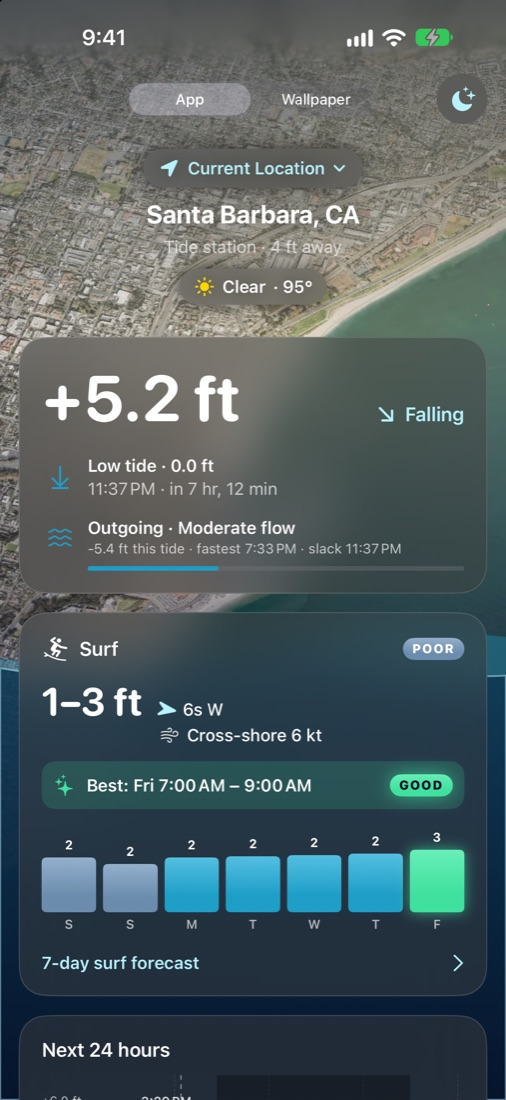
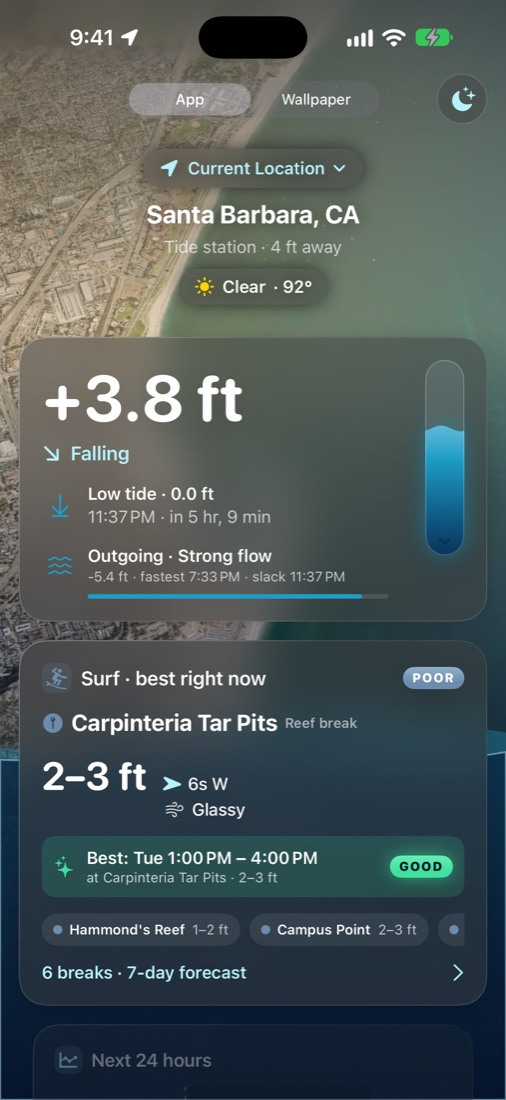
feat: Add boating forecast and spot-by-spot surf to Lunatide page

diff --git a/lunatide/index.html b/lunatide/index.html
@@ -4,7 +4,7 @@
     <meta charset="UTF-8">
     <meta name="viewport" content="width=device-width, initial-scale=1.0">
     <title>Lunatide — Tides, Moon, Surf &amp; Fishing for iPhone</title>
-    <meta name="description" content="Lunatide shows the tide where you are over a living satellite view of your coastline, with moon phases, solunar fishing times, a 7-day surf forecast and surf alerts.">
+    <meta name="description" content="Lunatide shows the tide where you are over a living satellite view of your coastline, with spot-by-spot surf forecasts, official marine forecasts for boaters, moon phases and solunar fishing times.">
     <meta property="og:title" content="Lunatide — Tides, Moon, Surf &amp; Fishing">
     <meta property="og:description" content="The tide, the moon and the swell — over a living view of your coastline.">
     <meta property="og:image" content="https://baileyhcaldwell.com/lunatide/images/01-tides.jpg">
@@ -29,7 +29,7 @@
         <section class="wrap hero">
             <div>
                 <img class="app-icon" src="images/icon.png" alt="Lunatide app icon: a full moon over layered ocean waves">
-                <span class="eyebrow">Tides · Moon · Surf · Fishing</span>
+                <span class="eyebrow">Tides · Surf · Boating · Moon · Fishing</span>
                 <h1>The ocean, the moon and the swell. All in one glance.</h1>
                 <p class="lede">Lunatide shows the tide where you are over a living satellite view of your coastline, with real weather drifting across it and waves that rise and fall with the actual tide.</p>
                 <div class="cta-row">
@@ -70,18 +70,33 @@
             <article class="feature reverse">
                 <div class="feature-text">
                     <span class="tag surf">Surf</span>
-                    <h2>Catch the good sessions. Skip the blown-out ones.</h2>
-                    <p>A 7-day surf forecast rated from Flat to Epic, tuned to the direction your beach actually faces, so offshore and onshore wind are judged the way surfers judge them.</p>
+                    <h2>Know which break is firing before you paddle out.</h2>
+                    <p>Lunatide forecasts the named surf breaks near you, from Rincon to Ditch Plains to the Abacos, and ranks them so the best spot right now is always on top. Each break is rated from Flat to Epic using the direction it actually faces, so offshore and onshore wind are judged the way surfers judge them.</p>
                     <ul class="checks">
-                        <li>Wave height, swell period and direction, hour by hour</li>
-                        <li>Best sessions highlighted for every day</li>
-                        <li>Surf alerts about 90 minutes before a good session</li>
+                        <li>Up to six nearby breaks, ranked live, with a crown on today's best</li>
+                        <li>Tap any break to see its coastline, sessions and 7-day forecast</li>
+                        <li>Wave height, swell period and direction, and wind, hour by hour</li>
+                        <li>"Surf's up" alerts that name the break, about 90 minutes before it's good</li>
                     </ul>
                 </div>
-                <div class="phone"><img src="images/02-surf.jpg" alt="Surf forecast with a good session on Friday morning and an hourly wave chart" loading="lazy" width="550" height="1195"></div>
+                <div class="phone"><img src="images/02-surf.jpg" alt="Surf forecast for Carpinteria Tar Pits with a picker of nearby breaks, best sessions and a 7-day outlook" loading="lazy" width="550" height="1195"></div>
             </article>
 
             <article class="feature">
+                <div class="feature-text">
+                    <span class="tag boat">Boating</span>
+                    <h2>Check the water before you leave the dock.</h2>
+                    <p>The official National Weather Service marine forecast for your stretch of coast, turned into something you can read at a glance: a clear Calm, Moderate, Choppy or Rough rating, wind and seas for every period, and any active advisories front and center.</p>
+                    <ul class="checks">
+                        <li>Wind, gusts and seas for the next five days</li>
+                        <li>Small Craft Advisories and marine warnings highlighted</li>
+                        <li>Wind and seas chart, plus the full forecast in plain English</li>
+                    </ul>
+                </div>
+                <div class="phone"><img src="images/06-marine.jpg" alt="Marine forecast for the East Santa Barbara Channel showing moderate conditions, a wind and seas chart and period-by-period forecasts" loading="lazy" width="550" height="1195"></div>
+            </article>
+
+            <article class="feature reverse">
                 <div class="feature-text">
                     <span class="tag moon">Moon</span>
                     <h2>Flip it over. Watch the moon move the sea.</h2>
@@ -95,7 +110,7 @@
                 <div class="phone"><img src="images/03-moon.jpg" alt="Moon side showing the last-quarter moon and its position in the sky" loading="lazy" width="550" height="1195"></div>
             </article>
 
-            <article class="feature reverse">
+            <article class="feature">
                 <div class="feature-text">
                     <span class="tag fish">Fishing</span>
                     <h2>Fish when they're feeding.</h2>
@@ -109,7 +124,7 @@
                 <div class="phone"><img src="images/04-fishing.jpg" alt="Solunar fishing times, sun times and the moon's effect on the tide" loading="lazy" width="550" height="1195"></div>
             </article>
 
-            <article class="feature">
+            <article class="feature reverse">
                 <div class="feature-text">
                     <span class="tag tide">Everywhere you look</span>
                     <h2>Your coastline, on every screen.</h2>
@@ -129,6 +144,7 @@
             <p class="section-sub center">No accounts, no ads, no tracking. Just good information from sources you can trust.</p>
             <div class="grid">
                 <div class="card"><div class="icon" aria-hidden="true">🌊</div><h3>Official tide predictions</h3><p>Straight from NOAA Tides &amp; Currents, for thousands of U.S. stations.</p></div>
+                <div class="card"><div class="icon" aria-hidden="true">⛵</div><h3>Official marine forecasts</h3><p>Wind, seas and advisories straight from National Weather Service coastal waters zones.</p></div>
                 <div class="card"><div class="icon" aria-hidden="true">⛅</div><h3>Live weather on the map</h3><p>Fog, clouds, rain and storms from the National Weather Service, drawn over your coastline.</p></div>
                 <div class="card"><div class="icon" aria-hidden="true">🌕</div><h3>Astronomy on your phone</h3><p>Moon and sun positions calculated on the device, accurate to within minutes.</p></div>
                 <div class="card"><div class="icon" aria-hidden="true">🔒</div><h3>Private by design</h3><p>Your location never leaves your iPhone. Lunatide collects no personal data.</p></div>
@@ -154,6 +170,14 @@
             <details>
                 <summary>How do I add the widget?</summary>
                 <p>Press and hold an empty spot on your Home Screen, tap Edit → Add Widget, and search for Lunatide. The large widget shows the tide curve, moon phase, fishing rating and the next highs and lows.</p>
+            </details>
+            <details>
+                <summary>Which surf breaks are included?</summary>
+                <p>Over 140 named breaks across California, Oregon, Washington, Hawaii, the East and Gulf coasts, Puerto Rico and the Abacos. Lunatide shows up to six within about 37 miles of you, ranked by how good they are right now.</p>
+            </details>
+            <details>
+                <summary>Where does the boating forecast come from?</summary>
+                <p>It's the National Weather Service Coastal Waters Forecast for the marine zone you're in, with active advisories. Calm, Moderate, Choppy and Rough are Lunatide's at-a-glance summary of the forecast wind and seas; always read the full forecast and use your judgment before heading out.</p>
             </details>
             <details>
                 <summary>How is the surf rating worked out?</summary>

diff --git a/lunatide/privacy.html b/lunatide/privacy.html
@@ -36,7 +36,7 @@
             <p>To show forecasts, Lunatide requests public data from these services. They receive the tide station's published coordinates or ID, not your own location:</p>
             <ul>
                 <li><strong>NOAA Tides &amp; Currents</strong> (U.S. government): tide predictions and marine sensor readings</li>
-                <li><strong>National Weather Service</strong> (U.S. government): current weather</li>
+                <li><strong>National Weather Service</strong> (U.S. government): current weather and marine forecasts</li>
                 <li><strong>Open-Meteo</strong>: surf, swell and wind forecasts</li>
                 <li><strong>Apple Maps</strong>: satellite imagery and place search, covered by <a href="https://www.apple.com/legal/privacy/">Apple's privacy policy</a></li>
             </ul>

diff --git a/lunatide/lunatide.css b/lunatide/lunatide.css
@@ -209,6 +209,7 @@ h1 {
 .tag.surf { color: var(--good); }
 .tag.moon { color: #9ec8ff; }
 .tag.fish { color: var(--epic); }
+.tag.boat { color: #ffc561; }
 
 .checks { list-style: none; padding: 0; margin: 18px 0 0; }
 
